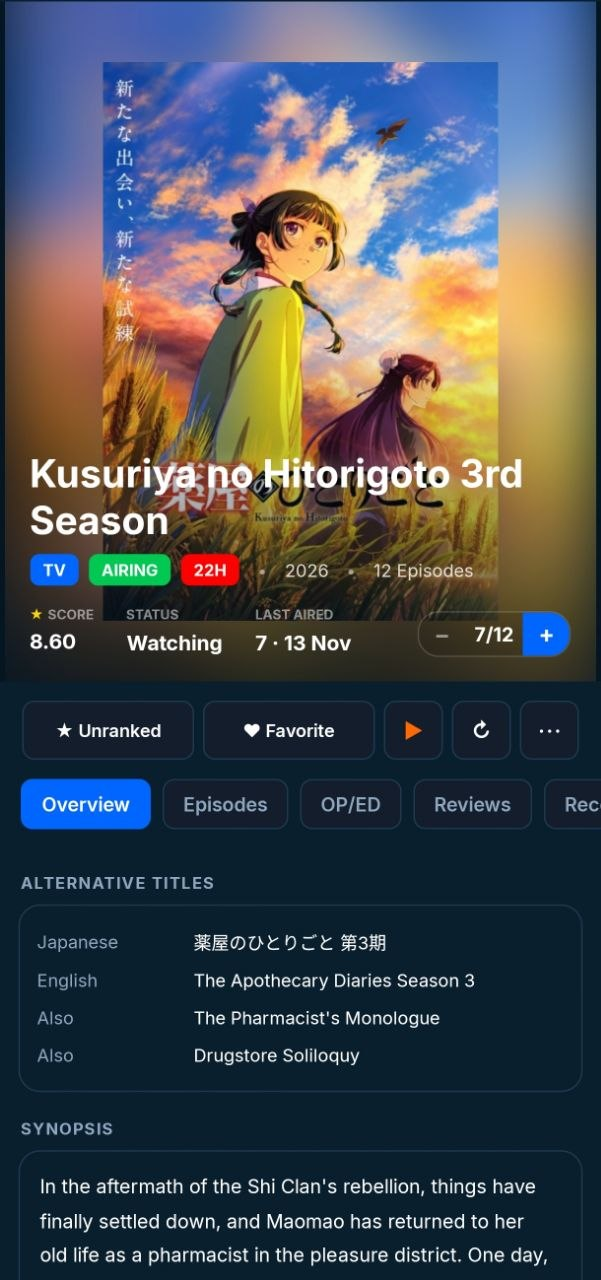
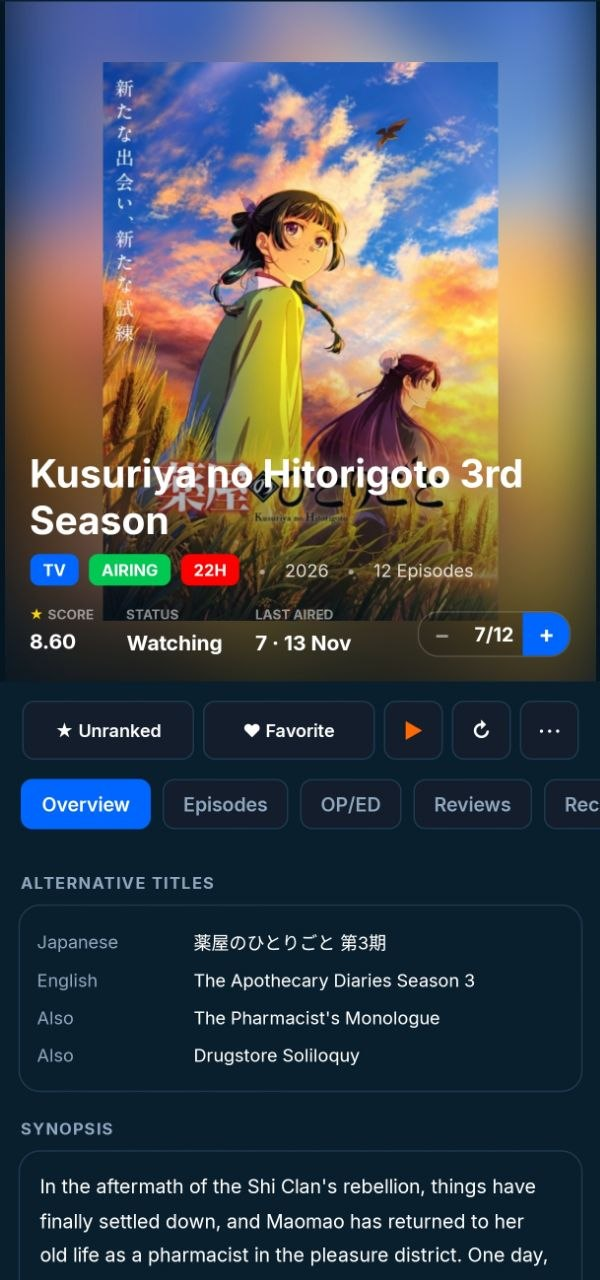
docs: update README with Windows edition, normalized screenshots, and credits [skip ci]

diff --git a/README.md b/README.md
@@ -86,9 +86,9 @@
 
 <table align="center">
   <tr>
-    <td align="center"><img src="images/preview-library.png" alt="Library view" width="250px" /><br><sub><b>Library</b></sub></td>
-    <td align="center"><img src="images/preview-details.png" alt="Anime details with OP/ED themes" width="250px" /><br><sub><b>Details and themes</b></sub></td>
-    <td align="center"><img src="images/preview-discover.png" alt="Discover hub" width="250px" /><br><sub><b>Discover</b></sub></td>
+    <td align="center"><img src="images/preview-library.png" alt="Library view" width="240px" /><br><sub><b>Library</b></sub></td>
+    <td align="center"><img src="images/preview-details.png" alt="Anime details with OP/ED themes" width="240px" /><br><sub><b>Details and themes</b></sub></td>
+    <td align="center"><img src="images/preview-discover.png" alt="Discover hub" width="240px" /><br><sub><b>Discover</b></sub></td>
   </tr>
 </table>
 
@@ -104,9 +104,9 @@ MAL+ is expanding to desktop! A dedicated Windows client built with .NET is curr
 
 <table align="center">
   <tr>
-    <td align="center"><img src="images/preview-windows-library.jpg" alt="MAL+ Windows Library Grid" width="260px" /><br><sub><b>High-Density Library</b></sub></td>
-    <td align="center"><img src="images/preview-windows-details.jpg" alt="MAL+ Windows Anime Details" width="260px" /><br><sub><b>Anime Details &amp; Relations</b></sub></td>
-    <td align="center"><img src="images/preview-windows-player.jpg" alt="MAL+ Windows Theme Player" width="260px" /><br><sub><b>AnimeThemes Player</b></sub></td>
+    <td align="center"><img src="images/preview-windows-library.jpg" alt="MAL+ Windows Library Grid" width="280px" /><br><sub><b>High-Density Library</b></sub></td>
+    <td align="center"><img src="images/preview-windows-details.jpg" alt="MAL+ Windows Anime Details" width="280px" /><br><sub><b>Anime Details &amp; Relations</b></sub></td>
+    <td align="center"><img src="images/preview-windows-player.jpg" alt="MAL+ Windows Theme Player" width="280px" /><br><sub><b>AnimeThemes Player</b></sub></td>
   </tr>
 </table>
 
@@ -185,8 +185,8 @@ dotnet build MALPlus/MALPlus.csproj -f net11.0-android37.0 -p:Configuration=Rele
 
 MAL+ exists thanks to the open-source community:
 
-- **[Drutol](https://github.com/Drutol)**: author of the original [MALClient](https://github.com/Drutol/MALClient) (UWP / Xamarin), the foundation of this client.
-- **[idarkalex](https://github.com/idarkalex)**: maintainer, responsible for the fork, the .NET 11 MAUI rewrite and the performance work.
+- **[idarkalex](https://github.com/idarkalex)**: project creator and maintainer, responsible for the modern .NET 11 MAUI rewrite, Windows edition, architecture, and performance work.
+- **[Drutol](https://github.com/Drutol)**: author of the original [MALClient](https://github.com/Drutol/MALClient) (UWP / Xamarin), the legacy foundation of this client.
 - **[Tenrai API](https://api.tenrai.org)**: fast, reliable anime and manga metadata and episode catalogue.
 - **[AnimeThemes](https://animethemes.moe)**: an open repository of high-definition anime themes (OP/ED).
 - **[MyAnimeList](https://myanimelist.net)** and **[AniList](https://anilist.co)**: the communities and databases that make this app possible.
